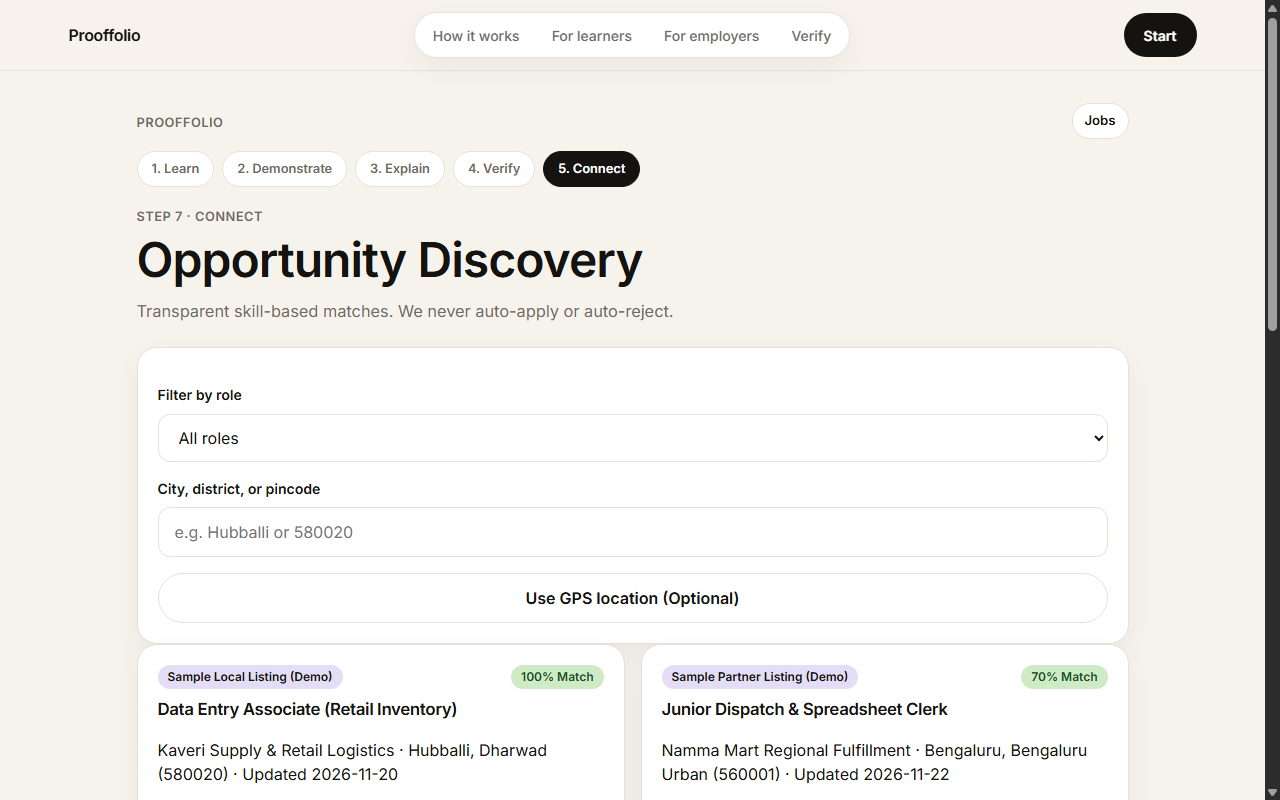
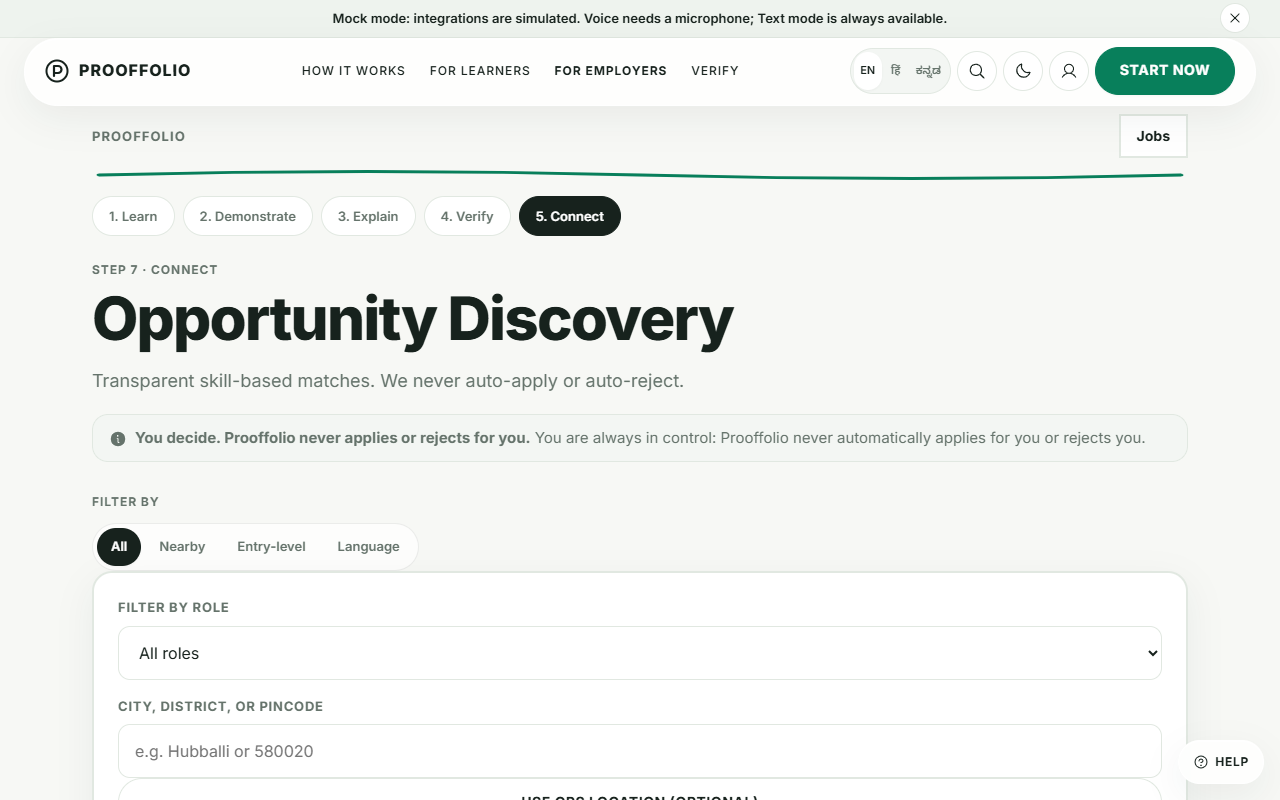
docs(readme): update screenshots and Porcelain + Forest UI documentation

diff --git a/README.md b/README.md
@@ -31,17 +31,37 @@ Conventional hiring filters out skilled informal and vocational learners: resume
 
 ## Screenshots
 
-| Desktop Landing (`1280px`) | Mobile Landing (`360px`) |
+| Desktop Landing — Porcelain Light (`1280px`) | Desktop Landing — Deep Evergreen Dark (`1280px`) |
 |---|---|
-| ![Desktop Landing](docs/assets/screenshots/02-landing-desktop-1280.png) | ![Mobile Landing](docs/assets/screenshots/01-landing-mobile-360.png) |
+| ![Desktop Landing Light](docs/assets/screenshots/02-landing-desktop-1280.png) | ![Desktop Landing Dark](docs/assets/screenshots/10-landing-dark-1280.png) |
 
-| Demo Replay (`?demo=1`) | Challenge & XLSX Upload (`/challenge`) |
+| Mobile Landing (`360px`) | Demo Replay (`/?demo=1`) |
 |---|---|
-| ![Demo Replay](docs/assets/screenshots/03-demo-replay-desktop.png) | ![Challenge Upload](docs/assets/screenshots/04-challenge-desktop.png) |
+| ![Mobile Landing](docs/assets/screenshots/01-landing-mobile-360.png) | ![Demo Replay](docs/assets/screenshots/03-demo-replay-desktop.png) |
 
-| Opportunities Discovery (`/opportunities`) | System Health & Integrations (`/health`, `/integrations`) |
+| Challenge & XLSX Upload (`/challenge`) | ECVE Results Breakdown (`/results/:id`) |
 |---|---|
-| ![Opportunities](docs/assets/screenshots/05-opportunities-desktop.png) | ![Health Dashboard](docs/assets/screenshots/06-health-desktop.png) |
+| ![Challenge Upload](docs/assets/screenshots/04-challenge-desktop.png) | ![ECVE Results](docs/assets/screenshots/09-results-desktop.png) |
+
+| Skill Passport (`/passport/:id`) | Opportunities Discovery (`/opportunities`) |
+|---|---|
+| ![Skill Passport](docs/assets/screenshots/08-passport-desktop.png) | ![Opportunities](docs/assets/screenshots/05-opportunities-desktop.png) |
+
+| System Health (`/health`) | Sponsor Integrations (`/integrations`) |
+|---|---|
+| ![Health Dashboard](docs/assets/screenshots/06-health-desktop.png) | ![Integrations](docs/assets/screenshots/07-integrations-desktop.png) |
+
+---
+
+## Design System & Interactive UI
+
+- **Porcelain + Forest Palette**: Light theme (`#F7F8F5` porcelain canvas, `#17221D` ink, `#087F5B` forest accent, `#DDF4E9` mint tint) and Dark theme (`#0C1411` deep evergreen canvas, `#121E18` surface, `#43C995` mint accent) with `prooffolio_theme` persistence (`light` / `dark` / `system`).
+- **Selective Glassmorphism**: Frosted glass navigation bar, mobile bottom dock, hero Skill Passport preview, sheets/modals, and `@supports not (backdrop-filter)` solid fallbacks.
+- **Interactive & Motion Primitives** (zero extra runtime bloat, React 18 + CSS + WebGL):
+  - **Aceternity-adapted (`web/src/shared/aceternity/`)**: `AuroraBackground`, `BackgroundBeams`, `Spotlight`, `TextGenerateEffect`, `Card3D`, `GlareCard`, `MovingBorder`, `GlowingEffect`, `TracingBeam`, `BentoGrid`, `AnimatedTabs`, `TypewriterEffect`, `MultiStepLoader`, `FocusCard`, `PinBadge`, `MacbookScroll`, `CardStack`.
+  - **Skiper-adapted (`web/src/shared/skiper/`)**: `DynamicIsland` (real upload & AI Viva status), `AiInput`, `VercelTooltip`, `MinimalCardExpand`, `SvgFollowScroll`, `ScrollImagesReveal`.
+  - **Animmaster-inspired (`web/src/shared/animmaster/`)**: `ShaderHeroCanvas` (low-power WebGL hero shader with off-screen pause), `Magnetic` CTA wrapper, `VerificationSealSvg`, and smooth route transitions.
+- **Accessibility & Mobile-First**: Verified at `360px`–`1440px` with zero horizontal overflow, coarse-pointer motion guards, keyboard focus outlines, and global `prefers-reduced-motion` support.
 
 ---
 
@@ -273,7 +293,7 @@ npm run test:bluff                                 # 20-transcript Anti-Bluff ha
 npm run smoke                                      # Smoke test against http://localhost:8787
 ```
 
-For AWS deployment instructions (user-run only) and manual sponsor setup checklists, see [DEPLOY.md](file:///a:/Whackiest_2k26/DEPLOY.md), [docs/PROOFFOLIO_REQUIREMENTS_TRACEABILITY.md](file:///a:/Whackiest_2k26/docs/PROOFFOLIO_REQUIREMENTS_TRACEABILITY.md), and [docs/FINAL_MIGRATION_REPORT.md](file:///a:/Whackiest_2k26/docs/FINAL_MIGRATION_REPORT.md).
+For AWS deployment instructions (user-run only) and manual sponsor setup checklists, see [DEPLOY.md](DEPLOY.md), [docs/PROOFFOLIO_REQUIREMENTS_TRACEABILITY.md](docs/PROOFFOLIO_REQUIREMENTS_TRACEABILITY.md), and [docs/FINAL_MIGRATION_REPORT.md](docs/FINAL_MIGRATION_REPORT.md).
 
 ---
 
